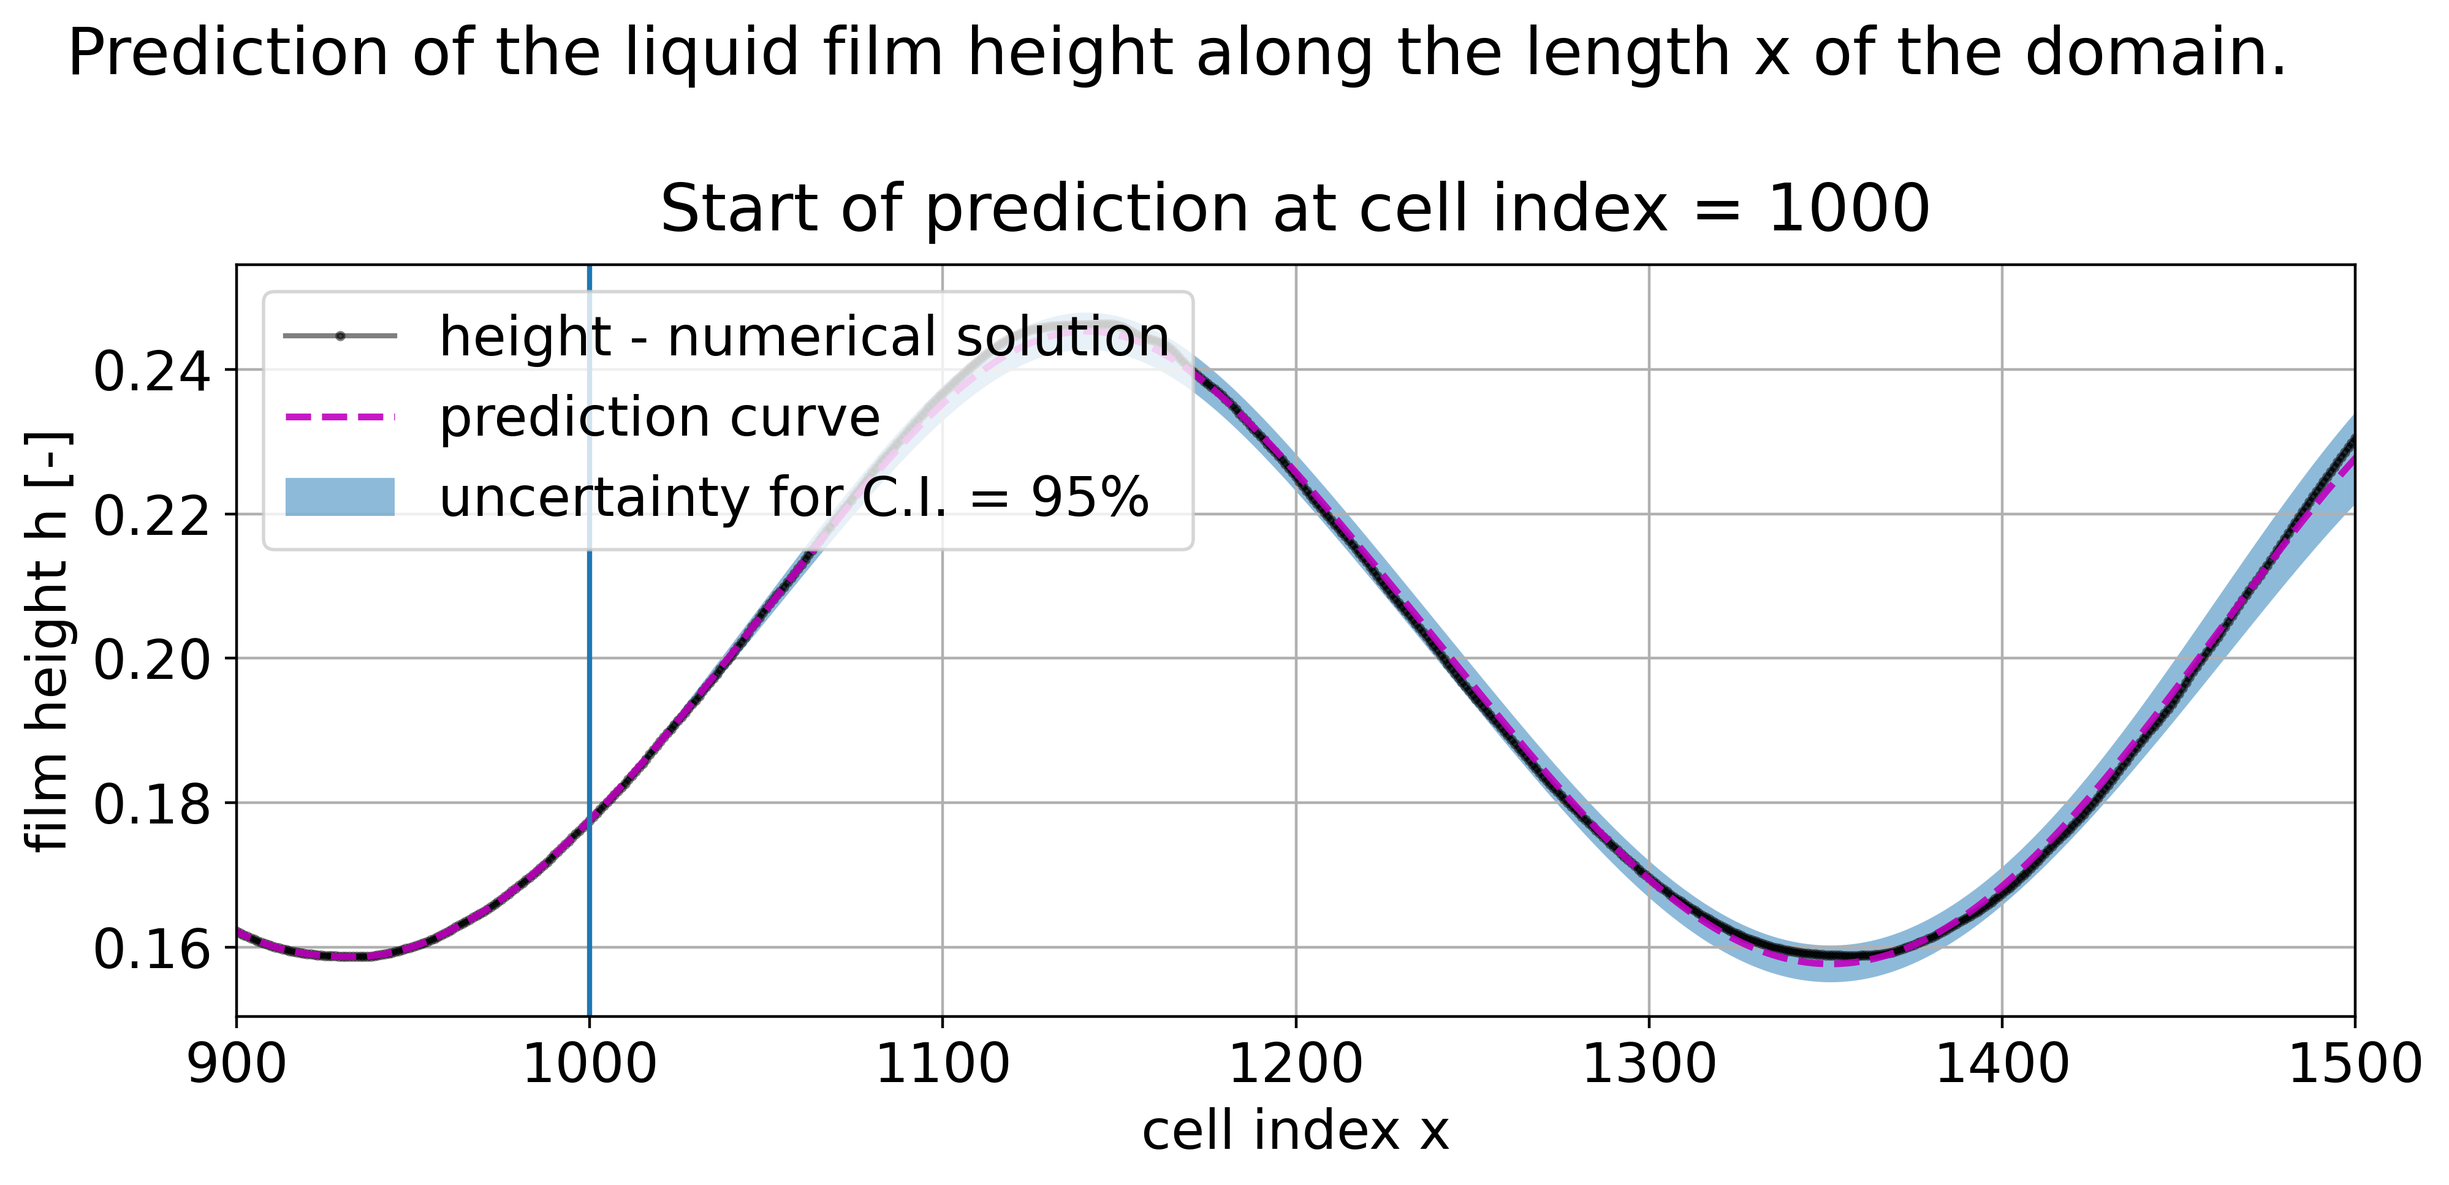
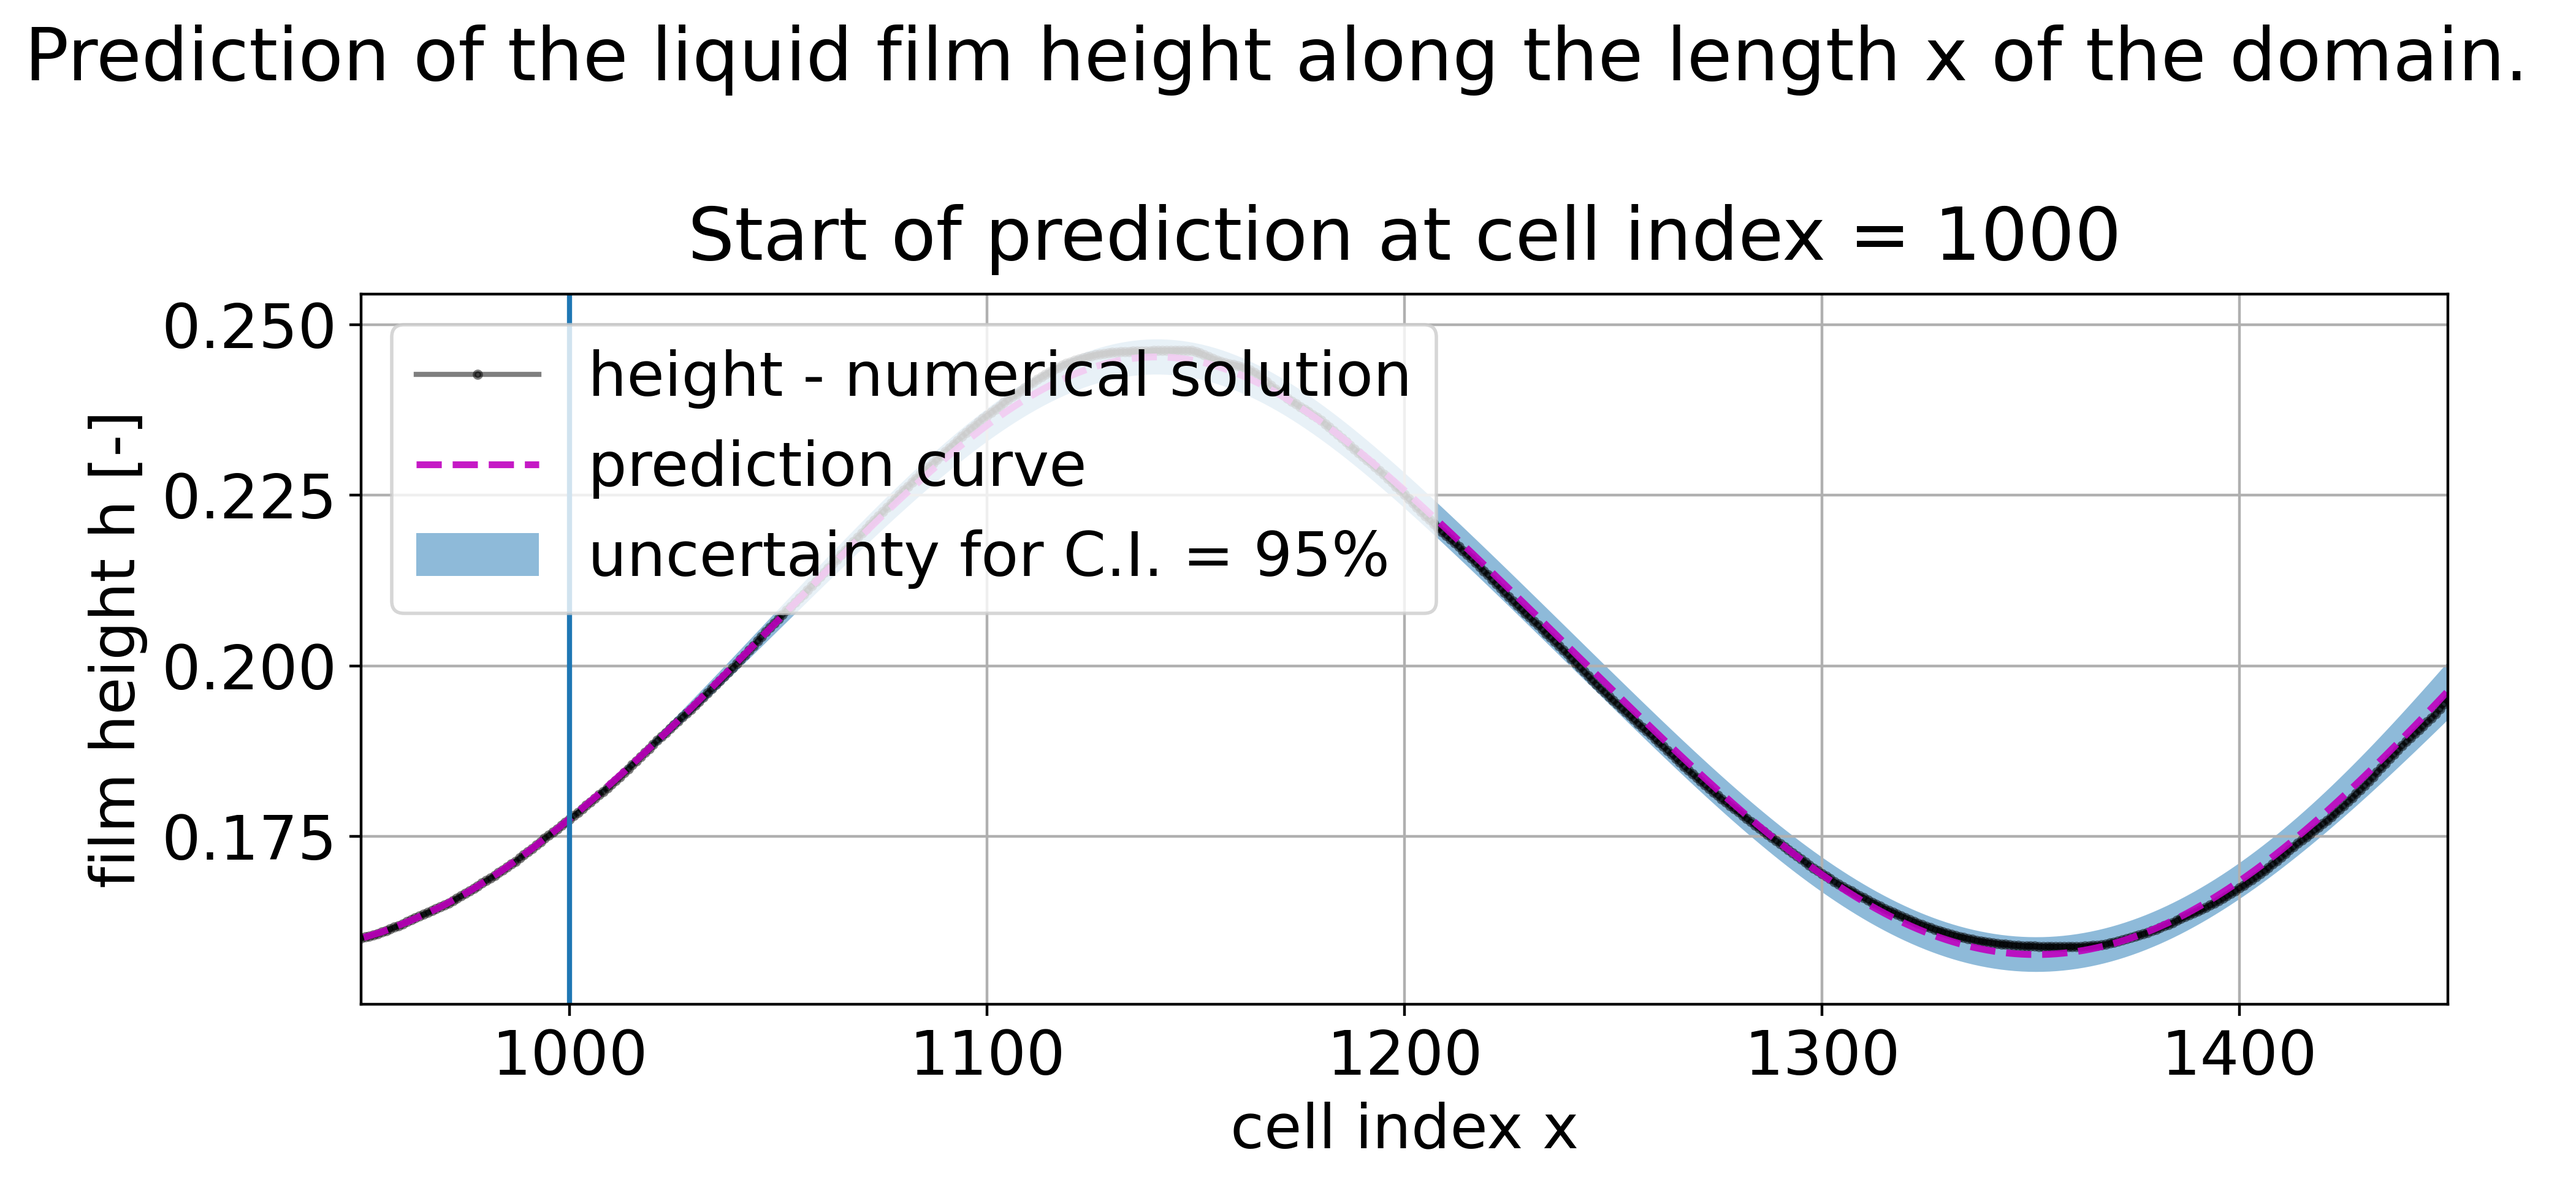
minor plot improvements

diff --git a/main_solver_liquid_film.py b/main_solver_liquid_film.py
@@ -82,8 +82,8 @@ liquid_list = [
 
 # Selection of the configuration:
 configurations = [
-                  conf['PX01']#, # OpenFOAM JFM case
-                  # conf['PXZ1']#,
+                  # conf['PX01']#, # OpenFOAM JFM case
+                  conf['PXZ1']#,
                   # conf['PXZ2']
                   ]
 
@@ -94,7 +94,7 @@ scheme = schemes['LWFble']
 
 # Specify whether to include surface tension
 # terms in the sources (the third derivatives):
-surface_tension = True
+surface_tension = False
 
 
 # dimensionless substrate velocity:
@@ -106,6 +106,7 @@ output_interval = 1.0
 
 # initial height:
 h0 = 0.2 # [-]
+# h0 = 0.1 # [-]
 
 # Run for all liquid types:
 for liquid in liquid_list:
@@ -115,6 +116,7 @@ for liquid in liquid_list:
         Epsilon = 0.23918 # Long-wave parameter, [-]
         Re_list = [319] # Re number in OpenFOAM JFM
         # Re_list = [319, 2*319]
+        # Re_list = [319*6] # to emphasize nonlinearities
     elif liquid == liquids['ZINC']:
         # Set liquid ZINC parameters from JFM:
         Epsilon = 0.15460 # Long-wave parameter, [-]
@@ -154,9 +156,9 @@ for liquid in liquid_list:
                 frequencies = [0.05] # [-] as in 2D JFM
 
             if scheme == schemes['LWFble']:
-                scheme_choice = 'LxFr'
+                # scheme_choice = 'LxFr'
                 # scheme_choice = 'LxWe'
-                # scheme_choice = 'BLmi'
+                scheme_choice = 'BLmi'
             else:
                 scheme_choice = \
                 list(schemes.keys())[scheme][:4]
@@ -180,7 +182,7 @@ for liquid in liquid_list:
                 freq_JFM = 0.05
                 # Minimum npoin is around 363 for which
                 # the numerical dissipation is negligible:
-                npoin = int((U_substr/freq_JFM)/(0.0275*2*10))
+                npoin = int((U_substr/freq_JFM)/(0.0275*2))
                 dx    = (lambd/(npoin))*factor
                 L     = 8*lambd
                 nx    = int(L/dx)
@@ -248,6 +250,7 @@ for liquid in liquid_list:
                                             liquids_key,
                                             conf_key,
                                             scheme_choice,
+                                            h0,
                                             dx, nx, dz, nz,
                                             CFL, dt, final_time,
                                             Re, freq)
@@ -397,7 +400,7 @@ for liquid in liquid_list:
                                       *np.sin((2*np.pi\
                                                    /lambd_z)\
                                                   *z)\
-                                      *np.ones((nz,)))
+                                      *np.ones((nz,)))\
                                       # *np.exp(-(z-1.5)**2\
                                       #         /(2*(0.4)**2))\
                                       # /(0.4*np.sqrt(2*math.pi)))

diff --git a/meshes_and_validation_OpenFOAMcase/meshes_schemes_validation.py b/meshes_and_validation_OpenFOAMcase/meshes_schemes_validation.py
@@ -30,7 +30,7 @@ plt.close()
 font = {'family'    : 'DejaVu Sans', #'monospace'
         # 'monospace' : 'Droid Sans Mono',
         'weight'    : 'normal',
-        'size'      : 10}
+        'size'      : 14}
 matplotlib.rc('font', **font)
 
 # DATA FOLDERS:
@@ -51,7 +51,7 @@ types  = ['-.','--',':','']
 
 for j in range(len(titles)):
     # plots properties
-    plt.figure()
+    plt.figure(figsize=(12,4))
     plt.suptitle(titles[j])
     plt.xlabel(xlabel1)
     plt.ylabel(ylabel1)
@@ -99,15 +99,16 @@ for j in range(len(titles)):
                  linewidth = 2.2,
                  color = colors[i],
                  label = names[i][7:11] \
-                 + ' dx = {:.3f}'.format(dx),
+                 + ' dx = {:.4f}'.format(dx),
                  alpha = alpha1)
 
     plt.grid()
-    plt.legend(loc='lower right',
-               fontsize=8,
+    plt.legend(loc='upper left',
+               fontsize=12,
                numpoints=4,
                handlelength=4,
                markerscale=0.6)
+    plt.tight_layout()
     plt.savefig('PLOTS' + os.sep + FOLDERS[j] + '.png',
                 format='png', dpi=400)
 
@@ -129,8 +130,8 @@ for j in range(len(titles)):
              label = 'OpenFOAM case',
              alpha = alpha1)
 
-    plt.legend(loc='lower right',
-               fontsize=8,
+    plt.legend(loc='upper left',
+               fontsize=12,
                numpoints=4,
                handlelength=4,
                markerscale=0.6)

diff --git a/tools_for_saving.py b/tools_for_saving.py
@@ -25,6 +25,7 @@ import gc
 def create_directories(surface_tension,
                        liquids_key, conf_key,
                        scheme_choice,
+                       h0,
                        dx, nx, dz, nz,
                        CFL, dt, final_time,
                        Re, freq):
@@ -33,12 +34,12 @@ def create_directories(surface_tension,
     # directories exists. If not, create them.
 
     if surface_tension:
-        all_st = "_with_surface_tension"
+        all_st = "_with_surface_tension_" + str(h0)
         Path(liquids_key + all_st)\
             .mkdir(parents=True, exist_ok=True)
         os.chdir(liquids_key + all_st)
     else:
-        no_st = "_without_surface_tension"
+        no_st = "_without_surface_tension_" + str(h0)
         Path(liquids_key + no_st)\
             .mkdir(parents=True, exist_ok=True)
         os.chdir(liquids_key + no_st)

diff --git a/post_plotting_surfaces_contourfs_filtered_h.py b/post_plotting_surfaces_contourfs_filtered_h.py
@@ -29,13 +29,14 @@ import tools_for_plotting as save_plots
 os.chdir('RESULTS/')
 
 # Gather all computed configurations:
-LIQUIDS = natsorted(glob.glob('2D*')) + natsorted(glob.glob('3D*'))
+# LIQUIDS = natsorted(glob.glob('2D*')) + natsorted(glob.glob('3D*'))
+LIQUIDS = natsorted(glob.glob('*'))
 
 # Choose which plots to produce:
-Surfaces = False   # liquid film height surfaces h
-Contourfs = True  # contour plot of the last computed time step of h
-Filtered = False    # filtered third derivatives contourplots
-                   # and comparisons
+Surfaces  = False     # liquid film height surfaces h
+Contourfs = True    # contour plot of the last computed time step of h
+Filtered  = False    # filtered third derivatives contourplots
+                     # and comparisons
 
 if Filtered:
     LIQUIDS = ['3D_WATER_with_surface_tension_coarse_XZ2/',

diff --git a/assignment-DDFM-dats/Tsveti_adaptation_Tutorial_3_foreCasting_liquid_films.py b/assignment-DDFM-dats/Tsveti_adaptation_Tutorial_3_foreCasting_liquid_films.py
@@ -40,7 +40,7 @@ from sklearn.gaussian_process.kernels \
 # PLOT CUSTOMIZATIONS:
 font = {'family' : 'DejaVu Sans',
         'weight' : 'normal',
-        'size'   : 16}
+        'size'   : 18}
 rc('font', **font)
 
 # transparency levels
@@ -251,7 +251,7 @@ for i in range(len(option_list)):
     for j in range(len(zoom_list)):
         zoom = zoom_list[j]
         if zoom == True:
-            plt.xlim(900, 1500)
+            plt.xlim(950, 1450)
             plt.savefig('TS_plots_dats/predict-' \
                         + str(int(predict_cells)) \
                         + '-cells-' + name[0] \
@@ -260,4 +260,4 @@ for i in range(len(option_list)):
                         , format = 'png'
                         , dpi = 400
                         , bbox_inches = 'tight')
-    plt.show()
+    # plt.show()

diff --git a/post_plotting_spectrograms_characteristics.py b/post_plotting_spectrograms_characteristics.py
@@ -31,6 +31,12 @@ import glob
 from pathlib import Path
 
 
+# PLOT CUSTOMIZATIONS:
+font = {'family' : 'DejaVu Sans',
+        'weight' : 'normal',
+        'size'   : 16}
+rc('font', **font)
+
 
 ####################
 os.chdir('RESULTS/')

diff --git a/tools_for_plotting.py b/tools_for_plotting.py
@@ -35,7 +35,7 @@ from Functions_Miguel import filt_X
 # PLOT CUSTOMIZATIONS:
 font = {'family' : 'DejaVu Sans',
         'weight' : 'normal',
-        'size'   : 14}
+        'size'   : 16}
 rc('font', **font)
 
 
